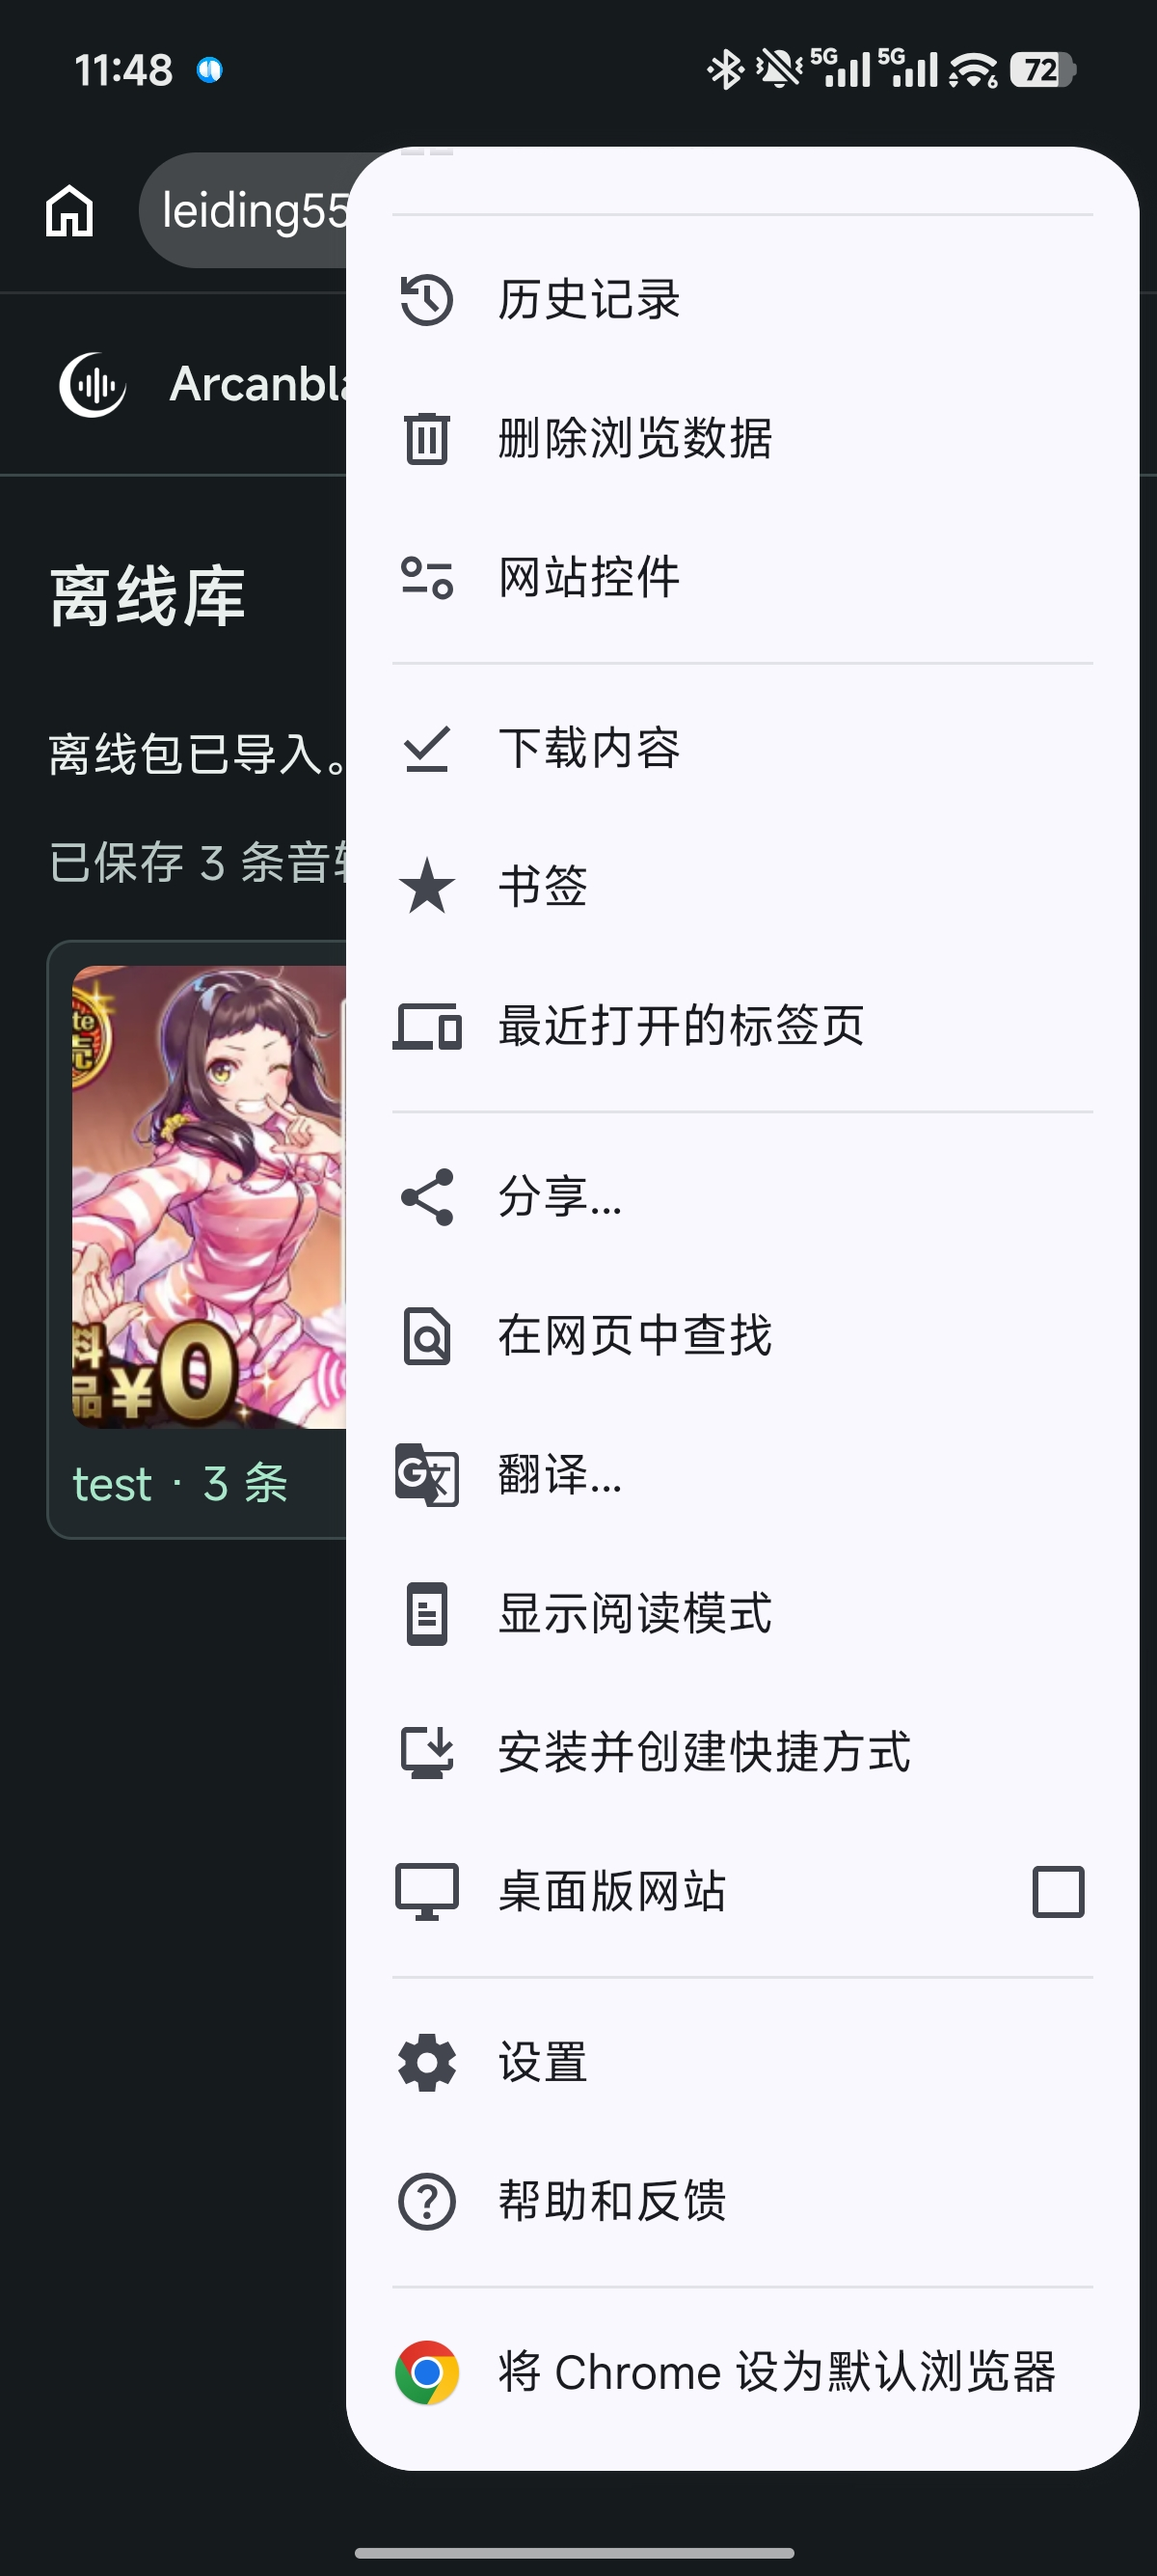
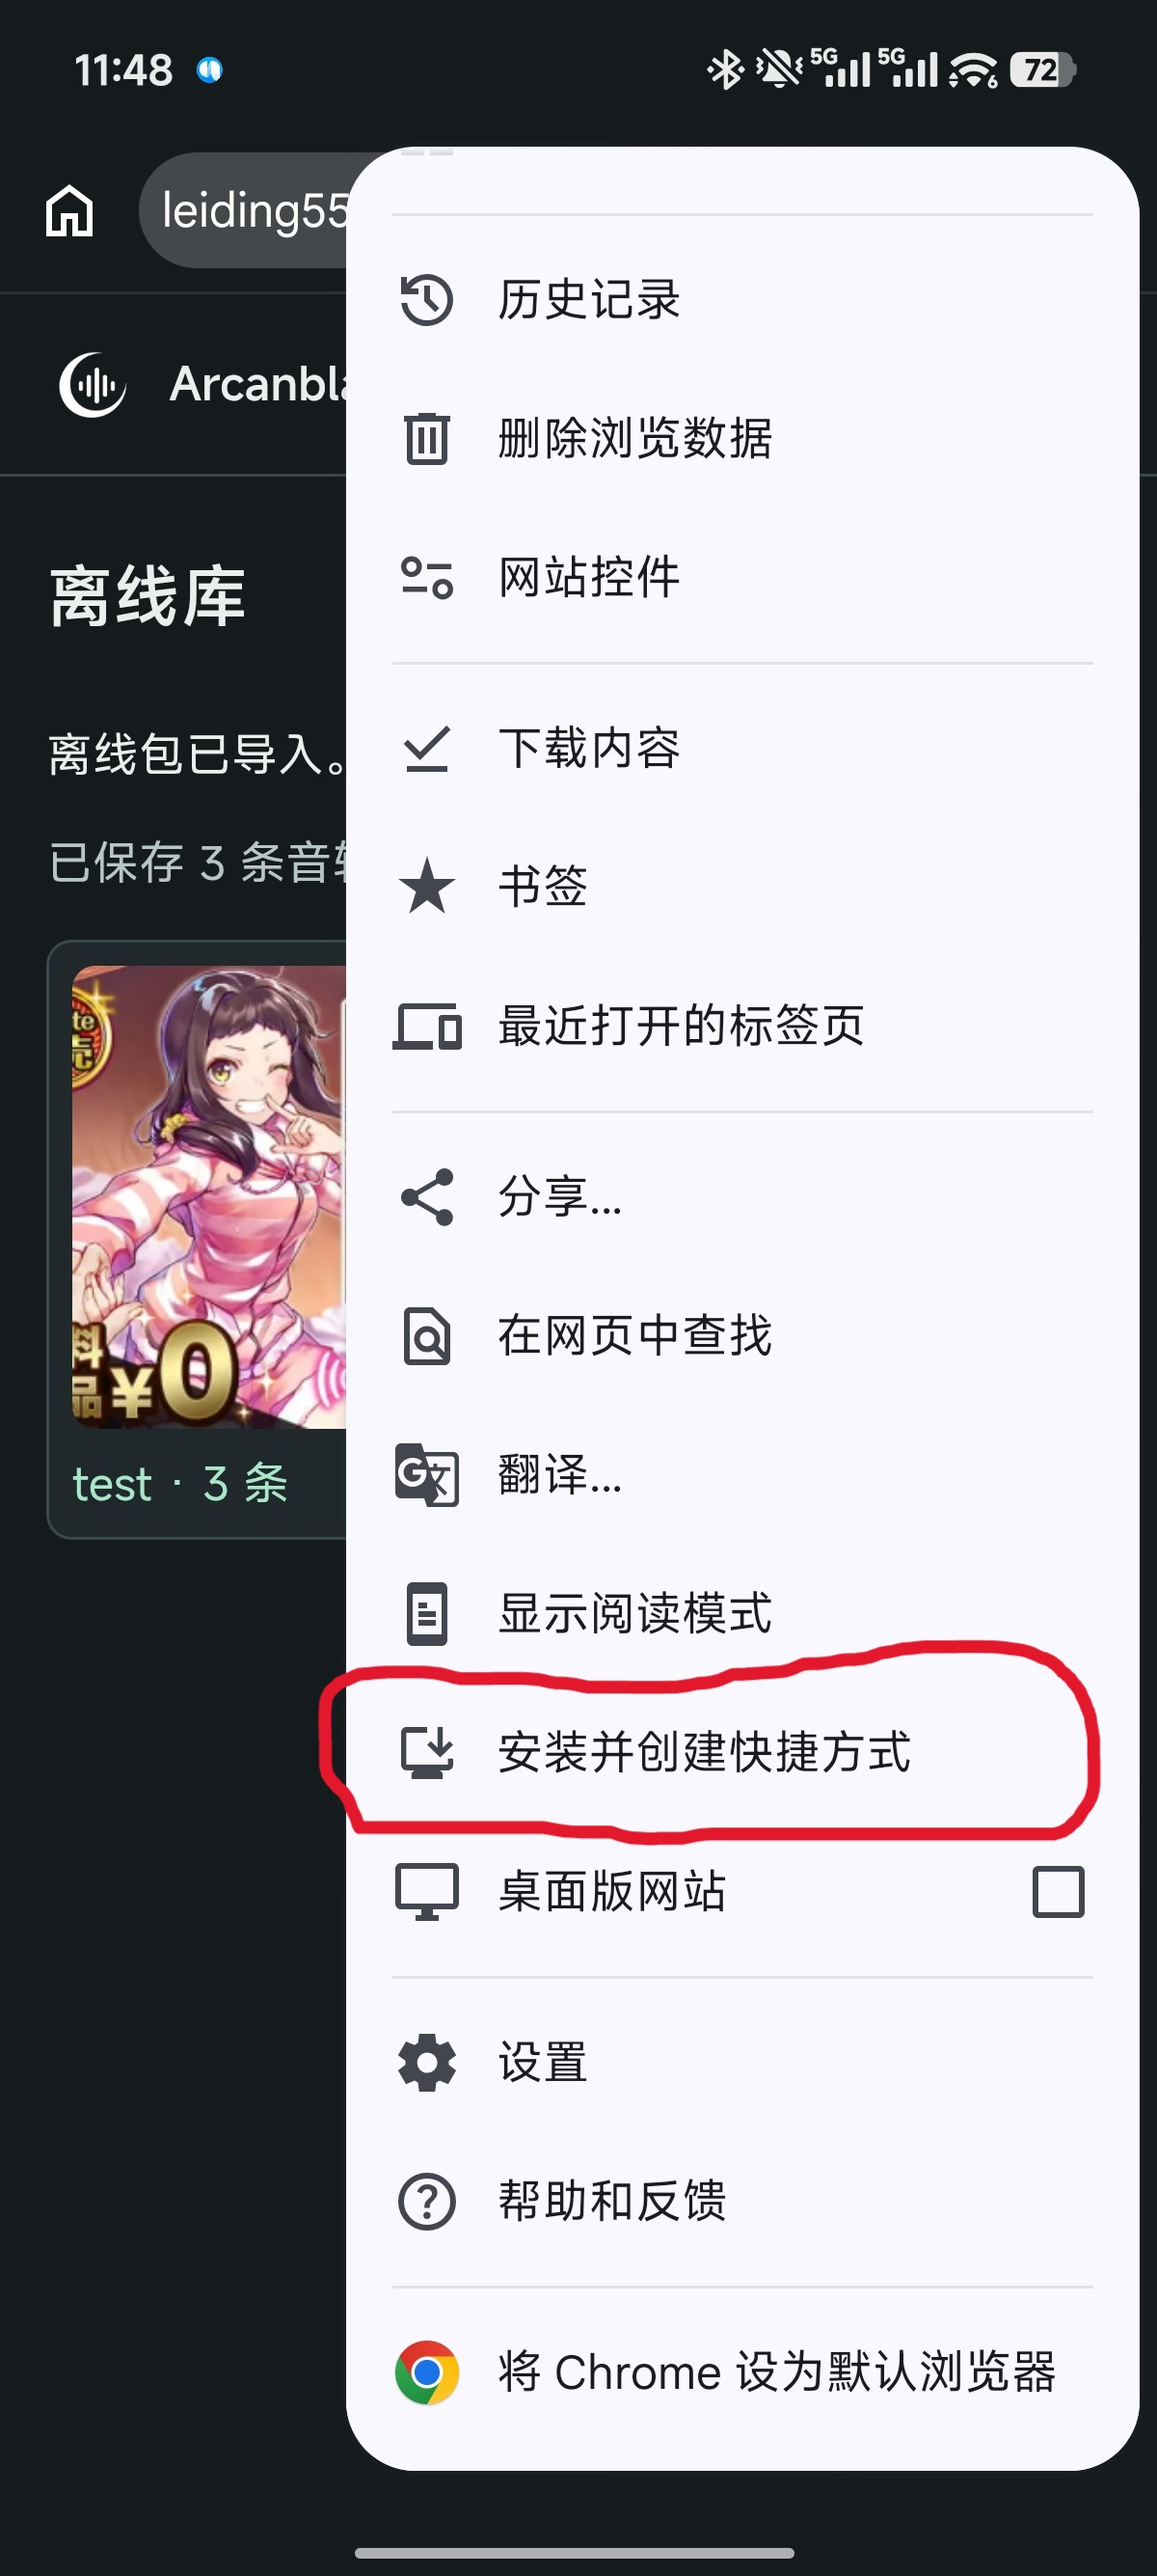
更新readme

Changed region(s): [[0.2775, 0.6528, 0.9558, 0.715], [0.6167, 0.6217, 0.925, 0.6528], [0.3083, 0.6217, 0.4625, 0.6528]]

diff --git a/README.md b/README.md
@@ -67,7 +67,8 @@
 
 在 Windows 端打开 **设置 → 手机播放**，即可用手机浏览器播放电脑上的音声和同步字幕。局域网播放期间，电脑需要保持 Arcanblade 运行并开启共享。音轨导入手机离线库后，即使电脑关机、手机断网，也能播放已导入的内容。
 
-#### 1. 设置 Windows 专用网络和防火墙
+<details>
+<summary><strong>1. 设置 Windows 专用网络和防火墙</strong>（点击展开 / 收起）</summary>
 
 1. **让电脑和手机连接同一局域网。** 两台设备可以连接同一个家庭 Wi‑Fi，电脑也可以通过网线连接到同一路由器。
 2. **将电脑当前连接的家庭网络设为「专用网络」。** 打开 Windows **设置 → 网络和 Internet**，进入当前连接的 **WLAN（Wi‑Fi）** 或 **以太网** 属性，在 **网络配置文件类型** 中选择 **专用网络**。仅对自己信任的网络使用此设置。 [微软网络设置说明](https://support.microsoft.com/en-us/windows/experience/connectivity-networking/essential-network-settings-and-tasks-in-windows)
@@ -78,7 +79,10 @@
 
    <img src="assets/screenshots/internet1.png" width="400" alt="Windows 防火墙提示中仅勾选专用网络">
 
-#### 2. 用手机扫码配对
+</details>
+
+<details>
+<summary><strong>2. 用手机扫码配对</strong>（点击展开 / 收起）</summary>
 
 1. 在电脑端打开 **设置 → 手机播放**，在 **网络接口** 中选择手机所在局域网对应的 **WLAN** 或 **以太网**，点击 **开启共享**。
 2. 用手机相机扫描电脑上的二维码，在手机浏览器打开链接。扫码链接会自动配对。如果在微信或 QQ 内打开后看到提示，请把完整链接复制到手机浏览器打开。
@@ -93,7 +97,10 @@
 
 如果扫码后网页打不开，先确认电脑仍在共享、网络接口选对了，并检查 Windows 的专用网络及防火墙设置。若手机连的是访客 Wi‑Fi，可换到家里的主 Wi‑Fi 再试。
 
-#### 3. 导出到手机离线库
+</details>
+
+<details>
+<summary><strong>3. 导出到手机离线库</strong>（点击展开 / 收起）</summary>
 
 1. 在手机的局域网 **作品库** 点击 **导出到离线库**。
 2. 勾选整部作品，或点击 **展开** 后只勾选需要的音轨。一次可以选择多部作品。
@@ -104,7 +111,10 @@
 
 如果自动导出失败，可在局域网网页打开作品详情，点击 **下载离线包**，选好音轨后点击 **下载压缩包**。下载完成后，打开 [Arcanblade 离线库](https://leiding555.github.io/Arcanblade-offline/)，点击 **导入离线包**，选择刚下载的 ZIP。确认导入和播放正常后，可以删除下载目录中的 ZIP。
 
-#### 4. 把离线库添加到手机桌面
+</details>
+
+<details>
+<summary><strong>4. 把离线库添加到手机桌面</strong>（点击展开 / 收起）</summary>
 
 先在局域网作品库右上角点 **离线库**，或直接打开 [Arcanblade 离线库](https://leiding555.github.io/Arcanblade-offline/)。在显示 **离线库** 的页面执行以下操作。
 
@@ -115,6 +125,8 @@
 - **iPhone（Safari）**。点 **分享 → 添加到主屏幕**。如果显示 **作为网页 App 打开**，开启后点 **添加**。 [Safari 使用说明](https://support.apple.com/zh-cn/guide/iphone/open-as-web-app-iphea86e5236/ios)
 
 添加后，从桌面图标打开离线库，确认已导入的作品可见。可开启飞行模式，试听一条音轨并检查字幕。如果桌面入口看不到作品，用原来导入时的浏览器标签页检查。不同浏览器或不同入口可能使用独立的站点存储。
+
+</details>
 
 ### 三、AI 字幕
 
